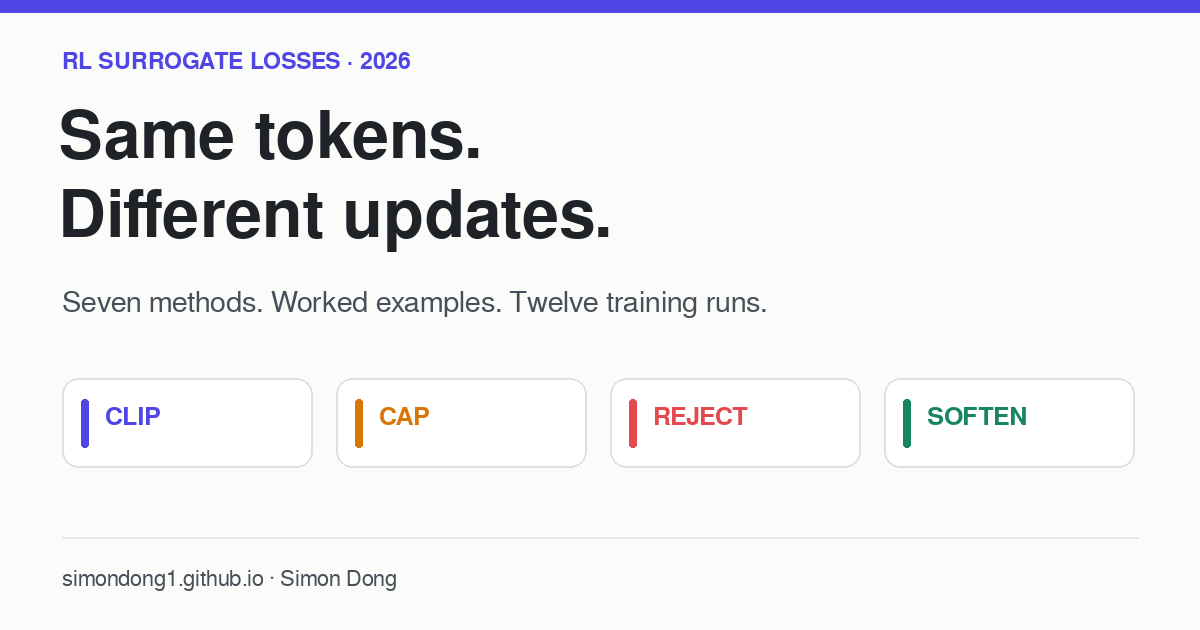
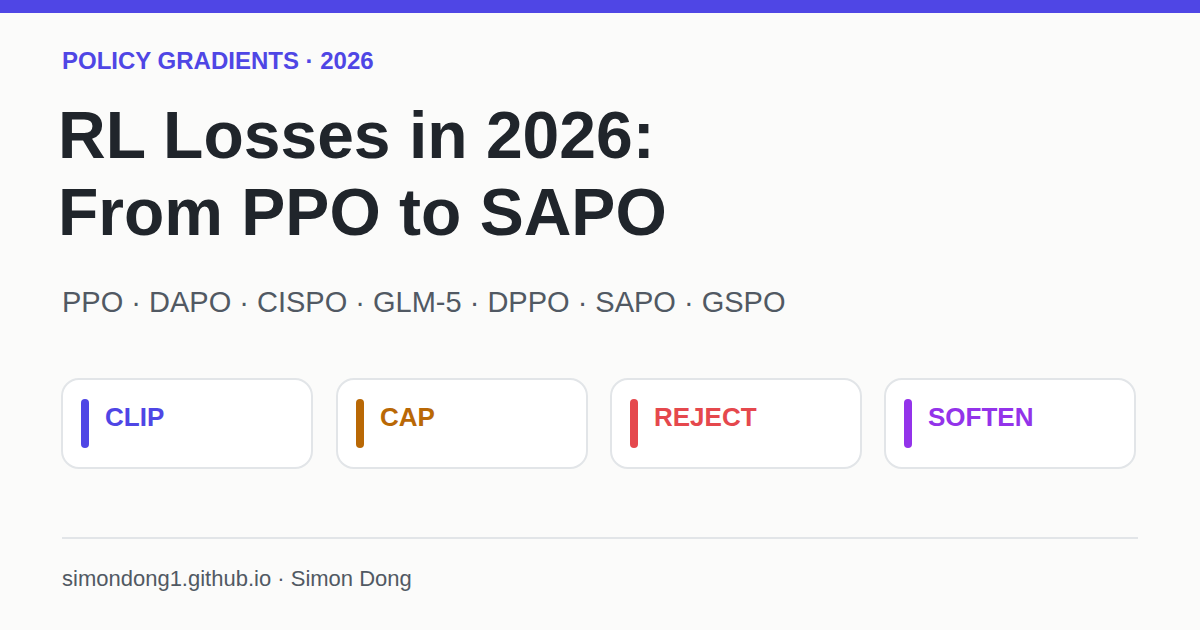
Refine RL article headings and complete editorial review

diff --git a/rl-surrogates-2026.html b/rl-surrogates-2026.html
@@ -3,20 +3,20 @@
 <head>
 <meta charset="utf-8" />
 <meta name="viewport" content="width=device-width, initial-scale=1" />
-<title>RL Surrogate Losses in 2026</title>
-<meta name="description" content="Clipping, capping, and rejecting token updates produce different learning curves: six surrogates compared in twelve full-parameter Miles runs on GSM8K and DAPO-Math." />
+<title>RL Losses in 2026: From PPO to SAPO</title>
+<meta name="description" content="Clip, cap, reject, or soften a policy gradient: seven RL surrogates explained, with a controlled Qwen3.5-9B comparison on GSM8K and DAPO-Math." />
 <meta name="robots" content="index, follow, max-image-preview:large, max-snippet:-1, max-video-preview:-1" />
 <link rel="canonical" href="https://simondong1.github.io/rl-surrogates-2026.html" />
 <link rel="alternate" type="application/rss+xml" title="Simon Dong Blog" href="https://simondong1.github.io/feed.xml" />
 <link rel="alternate" type="text/plain" title="llms.txt" href="https://simondong1.github.io/llms.txt" />
-<meta property="og:title" content="RL Surrogate Losses in 2026" />
-<meta property="og:description" content="Clipping, capping, and rejecting token updates produce different learning curves: six surrogates compared in twelve full-parameter Miles runs on GSM8K and DAPO-Math." />
+<meta property="og:title" content="RL Losses in 2026: From PPO to SAPO" />
+<meta property="og:description" content="Clip, cap, reject, or soften a policy gradient: seven RL surrogates explained, with a controlled Qwen3.5-9B comparison on GSM8K and DAPO-Math." />
 <meta property="og:type" content="article" />
 <meta property="og:url" content="https://simondong1.github.io/rl-surrogates-2026.html" />
 <meta property="og:site_name" content="Simon Dong" />
 <meta property="og:locale" content="en_US" />
-<meta property="og:image" content="https://simondong1.github.io/assets/rl-surrogates-2026-og.png?v=2" />
-<meta property="og:image:secure_url" content="https://simondong1.github.io/assets/rl-surrogates-2026-og.png?v=2" />
+<meta property="og:image" content="https://simondong1.github.io/assets/rl-surrogates-2026-og.png?v=3" />
+<meta property="og:image:secure_url" content="https://simondong1.github.io/assets/rl-surrogates-2026-og.png?v=3" />
 <meta property="og:image:type" content="image/png" />
 <meta property="og:image:width" content="1200" />
 <meta property="og:image:height" content="630" />
@@ -24,12 +24,12 @@
 <meta name="twitter:card" content="summary_large_image" />
 <meta name="twitter:site" content="@dongsixiang" />
 <meta name="twitter:creator" content="@dongsixiang" />
-<meta name="twitter:title" content="RL Surrogate Losses in 2026" />
-<meta name="twitter:description" content="Clipping, capping, and rejecting token updates produce different learning curves: six surrogates compared in twelve full-parameter Miles runs on GSM8K and DAPO-Math." />
-<meta name="twitter:image" content="https://simondong1.github.io/assets/rl-surrogates-2026-og.png?v=2" />
+<meta name="twitter:title" content="RL Losses in 2026: From PPO to SAPO" />
+<meta name="twitter:description" content="Clip, cap, reject, or soften a policy gradient: seven RL surrogates explained, with a controlled Qwen3.5-9B comparison on GSM8K and DAPO-Math." />
+<meta name="twitter:image" content="https://simondong1.github.io/assets/rl-surrogates-2026-og.png?v=3" />
 <meta name="twitter:image:alt" content="Clip, cap, reject, or soften the contribution of a sampled token." />
 <meta name="author" content="Simon Dong" />
-<meta name="citation_title" content="RL Surrogate Losses in 2026" />
+<meta name="citation_title" content="RL Losses in 2026: From PPO to SAPO" />
 <meta name="citation_author" content="Dong, Simon" />
 <meta name="citation_publication_date" content="2026/09/15" />
 <meta name="citation_fulltext_html_url" content="https://simondong1.github.io/rl-surrogates-2026.html" />
@@ -37,8 +37,8 @@
 {
   "@context": "https://schema.org",
   "@type": "TechArticle",
-  "headline": "RL Surrogate Losses in 2026",
-  "description": "Clipping, capping, and rejecting token updates produce different learning curves: six surrogates compared in twelve full-parameter Miles runs on GSM8K and DAPO-Math.",
+  "headline": "RL Losses in 2026: From PPO to SAPO",
+  "description": "Clip, cap, reject, or soften a policy gradient: seven RL surrogates explained, with a controlled Qwen3.5-9B comparison on GSM8K and DAPO-Math.",
   "author": {
     "@type": "Person",
     "name": "Simon Dong",
@@ -48,7 +48,7 @@
   "dateModified": "2026-09-16",
   "mainEntityOfPage": "https://simondong1.github.io/rl-surrogates-2026.html",
   "image": [
-    "https://simondong1.github.io/assets/rl-surrogates-2026-og.png?v=2"
+    "https://simondong1.github.io/assets/rl-surrogates-2026-og.png?v=3"
   ],
   "keywords": [
     "reinforcement learning",
@@ -211,7 +211,7 @@ footer a{color:var(--ink-soft)}
 <body>
 <header class="hero"><div class="wrap">
 <p class="eyebrow">Reinforcement learning · Part 2</p>
-<h1 class="title">RL Surrogate Losses<br>in 2026</h1>
+<h1 class="title">RL Losses in 2026:<br>From PPO to SAPO</h1>
 <p class="subtitle">PPO · DAPO · CISPO · GLM-5 · DPPO · SAPO · GSPO</p>
 <div class="byline"><a class="who" href="https://x.com/dongsixiang">Simon Dong</a><span aria-hidden="true">·</span><time datetime="2026-09-15">September 15, 2026</time></div>
 </div></header>
@@ -219,18 +219,18 @@ footer a{color:var(--ink-soft)}
 
 <a class="background-link" href="ppo.html"><span class="kicker">Background · Part 1</span><strong>Understanding PPO for Language Models <span aria-hidden="true">↗</span></strong><span>The rollout loop, advantages, and why the trainer recomputes log probabilities.</span></a>
 <nav class="toc" aria-label="Table of contents"><div class="toc-title">On this page</div><ol>
-<li><a href="#foundation">The shared gradient</a></li>
-<li><a href="#map">The 2026 landscape</a></li>
+<li><a href="#foundation">From rewards to gradients</a></li>
+<li><a href="#map">Seven surrogate rules</a></li>
 <li><a href="#ppo">Clip, cap, or reject</a></li>
-<li><a href="#dppo">Beyond ratio clipping</a></li>
-<li><a href="#explorer">Try the gradients</a></li>
-<li><a href="#aggregation">Weighting long responses</a></li>
+<li><a href="#dppo">Beyond token-ratio clipping</a></li>
+<li><a href="#explorer">Compare the gradients</a></li>
+<li><a href="#aggregation">Response length and weighting</a></li>
 <li><a href="#experiments">Real experiment</a></li>
 <li><a href="#references">Sources &amp; code</a></li>
 </ol></nav>
 
 <section id="foundation">
-<h2>The shared gradient</h2>
+<h2>From rewards to gradients</h2>
 <p>The RL loop is <strong>sample responses → score them → update the policy</strong>. The methods below change how the last step uses those samples.</p>
 
 <h3>Maximize expected reward</h3>
@@ -260,7 +260,7 @@ A_{\text{incorrect}}&amp;=\frac{0-0.5}{0.5}=-1.
 <div class="formula">\[ A_i=\frac{R_i-\bar R}{\sigma_R+\epsilon}. \]</div>
 <p>Identical rewards give \(A_i=0\): the group provides no relative learning signal. <strong>Advantage estimation and the surrogate are separate choices.</strong> Our runs all use GRPO to estimate advantages and vary the surrogate.</p>
 
-<h3>Train on saved rollouts</h3>
+<h3>Build a surrogate from saved rollouts</h3>
 <p>The trainer updates \(\theta\) on responses already sampled by a rollout policy. A <strong>surrogate</strong> is the differentiable stand-in for expected reward that we optimize on this fixed batch.</p>
 <p>For one saved token and its preceding context:</p>
 <dl class="notation">
@@ -274,7 +274,7 @@ A_{\text{incorrect}}&amp;=\frac{0-0.5}{0.5}=-1.
 <p>Hold \(q\) and \(A\) fixed. Only \(p\) depends on the current parameters:</p>
 <div class="formula featured">\[ \nabla_\theta j=\frac{A}{q}\nabla_\theta p=\underbrace{Ar}_{c}\,\nabla_\theta\log p. \]</div>
 <p>At \(p=q\), the coefficient is \(c=A\). As training changes \(p\), the ratio adjusts the saved token’s weight.</p>
-<p>Positive <strong>\(c\)</strong> reinforces the sampled token; negative \(c\) discourages it. The following surrogates clip, cap, gate, or soften this coefficient. Token averaging is a separate choice, covered in <a href="#aggregation">Weighting long responses</a>.</p>
+<p>Positive <strong>\(c\)</strong> reinforces the sampled token; negative \(c\) discourages it. The following surrogates clip, cap, gate, or soften this coefficient. Token averaging is a separate choice, covered in <a href="#aggregation">Response length and weighting</a>.</p>
 <p class="note">A zero coefficient removes this token’s local contribution. Other tokens and optimizer momentum can still move its probability.</p>
 <details><summary>Baseline, normalization, and ratio conventions</summary>
 <p>A prompt-dependent baseline \(b(x)\) leaves the expected on-policy gradient unchanged:</p>
@@ -296,8 +296,8 @@ A_{\text{incorrect}}&amp;\approx-0.866.
 </section>
 
 <section id="map">
-<h2>The 2026 landscape</h2>
-<p>These are prominent <strong>publicly documented</strong> methods. Model reports establish specific uses, not an industry-wide ranking.</p>
+<h2>Seven surrogate rules</h2>
+<p>These <strong>publicly documented</strong> methods appear in model reports, research papers, and RL frameworks. The sources identify where each is used; they do not establish an industry-wide ranking.</p>
 <div class="table-scroll"><table class="ptable overview"><thead><tr><th>Method</th><th>What changes</th><th>Public source</th></tr></thead><tbody>
 <tr><td><a href="#ppo">PPO / GRPO</a></td><td>Directional ratio clipping</td><td><a href="https://arxiv.org/abs/2402.03300">DeepSeekMath</a></td></tr>
 <tr><td><a href="#dapo">DAPO</a></td><td>More room for positive updates</td><td><a href="https://arxiv.org/abs/2503.14476">DAPO</a></td></tr>
@@ -320,7 +320,7 @@ A_{\text{incorrect}}&amp;\approx-0.866.
 
 <section id="ppo">
 <h2>Clip, cap, or reject</h2>
-<h3>PPO: stop pushing farther</h3>
+<h3>PPO: clip the policy ratio</h3>
 <p><strong>Proximal Policy Optimization (PPO)</strong> stops an update that has moved far enough in the advantage’s preferred direction. It keeps updates that would correct a move in the wrong direction.</p>
 <div class="example">
 <p class="kicker">Same token · Opposite advantages</p>
@@ -332,21 +332,21 @@ A_{\text{incorrect}}&amp;\approx-0.866.
 <p>The <code>min</code> makes clipping directional. Away from the boundaries:</p>
 <div class="formula">\[ c_{\rm PPO}=\begin{cases}0,&amp;A&gt;0\text{ and }r&gt;u,\\0,&amp;A&lt;0\text{ and }r&lt;l,\\Ar,&amp;\text{otherwise}.\end{cases} \]</div>
 
-<h3 id="dapo">DAPO: widen the positive side</h3>
+<h3 id="dapo">DAPO: raise the upper clip bound</h3>
 <p>DAPO’s <strong>clip-higher</strong> component uses the same formula with a larger upper bound. This gives low-probability tokens more room to grow before clipping.</p>
 <div class="example"><p>At \(r=1.25,\ A=+1\): PPO’s upper bound 1.2 gives <strong>\(c=0\)</strong>; DAPO’s 1.28 gives <strong>\(c=1.25\)</strong>.</p></div>
 <p class="note">Full DAPO also changes sampling, token aggregation, and overlong-response handling. Changing only the upper bound tests one component.</p>
-<details><summary>Dual-clip PPO: another hard boundary</summary>
+<details><summary>Dual-clip PPO: limit negative-advantage terms</summary>
 <p>Implemented in verl and SkyRL, dual-clip limits unusually large negative-advantage terms. For a constant \(\kappa&gt;1\):</p>
 <div class="formula">\[ j_{\rm dual}=\begin{cases}\max(j_{\rm PPO},\kappa A),&amp;A&lt;0,\\j_{\rm PPO},&amp;A\geq0.\end{cases} \]</div>
-<p>At \(r=4,\ A=-1,\ \kappa=3\), ordinary PPO keeps \(c=-4\). Dual-clip selects the constant objective \(-3\), so \(c=0\). Our runs use ordinary PPO.</p>
+<p>At \(r=4,\ A=-1,\ \kappa=3\), ordinary PPO clipping keeps \(c=-4\). Dual-clip selects the constant objective \(-3\), so \(c=0\). Our baseline uses ordinary clipping.</p>
 </details>
 
 <h3 id="weights">CISPO and GLM-5: cap versus reject</h3>
 <p>Both multiply log probability by a weight \(w\). <strong>Stop-gradient</strong>, written \(\operatorname{sg}\), freezes that weight during differentiation:</p>
 <div class="formula">\[ j=\operatorname{sg}(w)A\log p \quad\Longrightarrow\quad c=Aw. \]</div>
 <ul class="findings">
-<li><strong>CISPO caps \(w\).</strong> MiniMax-M1 keeps useful token gradients beyond the clipping boundary.</li>
+<li><strong>CISPO caps \(w\).</strong> MiniMax-M1’s Clipped Importance Sampling Policy Optimization keeps token gradients beyond the clipping boundary.</li>
 <li><strong>GLM-5 rejects extreme ratios.</strong> Its asynchronous agent surrogate distrusts tokens far from their recorded rollout probabilities, regardless of advantage sign.</li>
 </ul>
 <div class="example">
@@ -368,8 +368,8 @@ w_{\rm GLM}&amp;=r\,\mathbf1[l&lt;r&lt;u].
 </section>
 
 <section id="dppo">
-<h2>Beyond ratio clipping</h2>
-<h3>DPPO: measure probability mass</h3>
+<h2>Beyond token-ratio clipping</h2>
+<h3>DPPO: gate by divergence</h3>
 <p><strong>Divergence Proximal Policy Optimization (DPPO)</strong> questions whether a large ratio means a large change. A rare token can grow tenfold while moving little probability mass.</p>
 <div class="example">
 <p class="kicker">Two rewarded tokens · \(A=+1\)</p>
@@ -377,27 +377,27 @@ w_{\rm GLM}&amp;=r\,\mathbf1[l&lt;r&lt;u].
 <tr><td>0.001 → 0.01</td><td>10</td><td>0.009</td></tr>
 <tr><td>0.50 → 0.70</td><td>1.4</td><td>0.20</td></tr>
 </tbody></table></div>
-<p>GLM’s 0.5–5 interval rejects the rare token and keeps the common one. DPPO with a probability-mass threshold of 0.15 does the reverse.</p>
+<p>GLM-5’s 0.5–5 interval rejects the rare token and keeps the common one. DPPO with a probability-mass threshold of 0.15 does the reverse.</p>
 </div>
 <p><strong>Binary total variation (TV)</strong> groups the vocabulary into “sampled token” and “everything else.” The distance between \([q,1-q]\) and \([p,1-p]\) is simply \(|p-q|\).</p>
 <p>DPPO applies a directional gate \(m\), with thresholds \(\delta_+\) and \(\delta_-\):</p>
 <div class="formula">\[ m=\begin{cases}0,&amp;A&gt;0\text{ and }p-q&gt;\delta_+,\\0,&amp;A&lt;0\text{ and }q-p&gt;\delta_-,\\1,&amp;\text{otherwise}.\end{cases} \]</div>
 <div class="formula">\[ j_{\rm DPPO}=\operatorname{sg}(m)rA,\qquad c_{\rm DPPO}=Ar\,m. \]</div>
 <p><strong>Divergence changes the gate, not the retained weight.</strong> The rare token still gets \(c=10\). Binary TV cannot detect mass rearranged among the other vocabulary entries.</p>
-<details><summary>A negative advantage, and implementation variants</summary>
-<p>Take \(A=-1,\ q=0.90,\ p=0.74\). PPO keeps \(c\approx-0.822\), inside its 0.8–1.2 bounds. DPPO rejects it: the decrease of 0.16 exceeds 0.15. Mass-based gating can be stricter for common tokens.</p>
+<details><summary>Negative advantages and implementation variants</summary>
+<p>Take \(A=-1,\ q=0.90,\ p=0.74\). The ratio \(r\approx0.822\) is inside PPO’s 0.8–1.2 bounds, so \(c\approx-0.822\). DPPO rejects it: the decrease of 0.16 exceeds 0.15. Mass-based gating can be stricter for common tokens.</p>
 <p>The paper also studies binary Kullback–Leibler divergence and top-\(K\) approximations. Here DPPO means the binary-TV variant of <em>Divergence</em> PPO.</p>
 <p>The pinned verl path additionally caps a detached importance weight: \(c=A\min(r,C)m\), for cap \(C\). The pinned SkyRL path and our experiment use the uncapped coefficient above, subject to the numerical guard documented with our results.</p>
 </details>
 
-<h3 id="sapo">SAPO: soften the boundary</h3>
+<h3 id="sapo">SAPO: smooth the gradient weight</h3>
 <p><strong>Soft Adaptive Policy Optimization (SAPO)</strong> reduces influence smoothly as a ratio drifts. It uses the sigmoid \(\sigma(z)=1/(1+e^{-z})\), a smooth function between zero and one.</p>
 <div class="example"><p>At \(r=1.5,\ A=+1\), PPO clips to zero. With temperature \(\tau=1\), SAPO’s attenuation is about 0.94, giving <strong>\(c\approx1.5\times0.94=1.41\)</strong>.</p></div>
 <p>Define \(h=\sigma(\tau(r-1))\). Then:</p>
 <div class="formula">\[ j_{\rm SAPO}=\frac4\tau hA,\qquad c_{\rm SAPO}=Ar\,4h(1-h). \]</div>
 <p>At \(r=1\), attenuation is one. Larger \(\tau\) makes it decay faster; positive and negative advantages can use different temperatures. The attenuation is at most one; the coefficient \(c\) can still exceed the advantage in magnitude.</p>
 
-<h3 id="gspo">GSPO: decide for the whole response</h3>
+<h3 id="gspo">GSPO: clip whole responses</h3>
 <p><strong>Group Sequence Policy Optimization (GSPO)</strong> replaces noisy token-level decisions with one length-normalized sequence ratio.</p>
 <div class="example">
 <p>Two token ratios are 0.5 and 2.0, with \(A=+1\). Their geometric mean is \(\sqrt{0.5\times2}=1\), so GSPO keeps the response.</p>
@@ -410,7 +410,7 @@ w_{\rm GLM}&amp;=r\,\mathbf1[l&lt;r&lt;u].
 </section>
 
 <section id="explorer">
-<h2>Try the gradients</h2>
+<h2>Compare the gradients</h2>
 <p>Compare one token across six rules. Positive \(c\) reinforces the token; negative \(c\) discourages it. GSPO needs a whole response and is omitted here.</p>
 <div class="panel" id="gradient-explorer">
 <p class="panel-title">Policy-gradient coefficient</p>
@@ -441,7 +441,7 @@ w_{\rm GLM}&amp;=r\,\mathbf1[l&lt;r&lt;u].
 
 
 <section id="aggregation">
-<h2>Weighting long responses</h2>
+<h2>Response length and weighting</h2>
 <p>More tokens means more loss terms, not more optimizer steps. The reduction decides their relative weight.</p>
 <div class="example">
 <p class="kicker">One prompt · Responses of 10 and 90 tokens</p>
@@ -453,13 +453,13 @@ w_{\rm GLM}&amp;=r\,\mathbf1[l&lt;r&lt;u].
 <li><strong>Token mean:</strong> pool the whole batch. Prompts producing more tokens get more weight too.</li>
 </ul>
 <p>Fixed group sizes do not make these equivalent. Our experiment uses <strong>sequence mean</strong> throughout.</p>
-<details><summary>The exact denominators</summary>
+<details><summary>Token, response, and prompt averages</summary>
 <p>Let \(j_{igt}\) be token \(t\)’s objective in response \(g\) to prompt \(i\). There are \(B\) prompts, \(G\) responses per prompt, and \(L_{ig}\) valid tokens per response.</p>
 <div class="formula">\[ J_{\rm sequence}=\frac1{BG}\sum_{i,g}\frac{\sum_t j_{igt}}{L_{ig}}. \]</div>
 <div class="formula">\[ J_{\rm prompt}=\frac1B\sum_i\frac{\sum_{g,t}j_{igt}}{\sum_gL_{ig}}. \]</div>
 <div class="formula">\[ J_{\rm token}=\frac{\sum_{i,g,t}j_{igt}}{\sum_{i,g}L_{ig}}. \]</div>
 <p>A trajectory gradient naturally sums token terms. Dividing by length deliberately reweights it; equal reduction weights do not guarantee equal gradient norms. Check the denominator and distributed normalization, because library names vary.</p>
-<p>Other methods change different layers: <a href="https://arxiv.org/abs/2402.14740">RLOO</a> changes the reward baseline; <a href="https://arxiv.org/abs/2501.03262">REINFORCE++</a> changes baseline and normalization choices; <a href="https://arxiv.org/abs/2503.20783">Dr. GRPO</a> removes particular normalization biases.</p>
+<p>Other methods change different parts of the objective: <a href="https://arxiv.org/abs/2402.14740">RLOO</a> changes the reward baseline; <a href="https://arxiv.org/abs/2501.03262">REINFORCE++</a> changes baseline and normalization choices; <a href="https://arxiv.org/abs/2503.20783">Dr. GRPO</a> removes particular normalization biases.</p>
 </details>
 </section>
 <section id="experiments">
@@ -482,7 +482,7 @@ w_{\rm GLM}&amp;=r\,\mathbf1[l&lt;r&lt;u].
 </ul>
 <p class="note">Treat GSM8K as a saturation check for this already-trained checkpoint. These evaluations do not establish whether Qwen used the exact questions during pretraining or RL.</p>
 
-<h3>DAPO-Math-17K: more room to learn</h3>
+<h3>DAPO-Math-17K: the surrogates separate</h3>
 <p><a href="https://huggingface.co/datasets/BytedTsinghua-SIA/DAPO-Math-17k">DAPO-Math-17K</a> contains competition math with numeric answers. We deduplicate it and hold out questions before training: 16,088 training questions, with 512 fixed evaluation questions. Each arm sees 1,280 prompt presentations: <strong>320 updates, with a 4,096-token response cap</strong>.</p>
 <figure><picture><source media="(max-width: 640px)" srcset="assets/rl-surrogates-2026-dapo-accuracy-mobile.svg"/><img src="assets/rl-surrogates-2026-dapo-accuracy.svg" width="828" height="324" alt="DAPO training and held-out accuracy for six RL surrogates"/></picture><figcaption>Training: sampled accuracy at collection time, with faint raw values and a trailing five-collection mean. Held out: greedy accuracy on the same 512 questions. One seed; no confidence bands. Accuracy axes use different ranges.</figcaption></figure>
 <ul class="findings">
@@ -504,7 +504,7 @@ w_{\rm GLM}&amp;=r\,\mathbf1[l&lt;r&lt;u].
 <li><strong>These are short, partial passes through the data.</strong> They do not establish convergence, performance on unseen domains, or long-horizon agent performance.</li>
 </ul></aside>
 
-<details><summary>Learning signal, truncation, and gate activation</summary>
+<details><summary>Reward variance, truncation, and gate activation</summary>
 <p>Longer outputs do not create more optimizer steps here. Every arm receives the same number of responses and updates; generated tokens and compute can differ as its policy changes.</p>
 <h4>GSM8K</h4><figure><picture><source media="(max-width: 640px)" srcset="assets/rl-surrogates-2026-gsm8k-diagnostics-mobile.svg"/><img src="assets/rl-surrogates-2026-gsm8k-diagnostics.svg" width="828" height="324" alt="GSM8K truncation and reward variance for six RL surrogates"/></picture><figcaption>Share of responses reaching the cap and prompt groups with identical rewards. Every collection is shown.</figcaption></figure>
 <ul class="findings"><li><strong>68.36%–76.17% of minibatches have zero fresh gradient.</strong> Equal group rewards eliminate GRPO advantages; gating can remove further contributions. Adam momentum can still move the weights.</li></ul>
@@ -522,12 +522,13 @@ w_{\rm GLM}&amp;=r\,\mathbf1[l&lt;r&lt;u].
 <p>These are counting weights, not fractions of gradient norm. CISPO caps weights without zeroing them; SAPO usually changes their size smoothly. This diagnostic cannot predict an entire counterfactual training run. The <a href="experiments/rl-surrogates-2026-v2/gate-audit.csv">full audit</a> includes every trained policy and DAPO clipping.</p>
 </details>
 
-<details><summary>Evaluation variability and conditional uncertainty</summary>
-<p><strong>GSM8K:</strong> initial evaluations of the same checkpoint span 95.12%–95.70%. Mean pairwise disagreement on individual task rewards is 0.91%. The task IDs and decoding settings match; greedy inference is not bitwise repeatable.</p>
-<p><strong>DAPO-Math:</strong> initial evaluations of the same checkpoint span 60.74%–62.50%. Mean pairwise disagreement on individual task rewards is 12.03%. The task IDs and decoding settings match; greedy inference is not bitwise repeatable.</p>
-<p>The <a href="experiments/rl-surrogates-2026-v2/summary.json">paired task-bootstrap intervals</a> condition on the realized models and decoded outputs. They exclude training-seed and inference-runtime uncertainty. Disjoint study splits also do not rule out pretraining exposure.</p></details>
-<details><summary>Three actual responses: reaching an answer within the cap</summary>
-<p>We inspected the first three zero-to-one reward transitions in GLM-5’s saved DAPO evaluation order. All three initial responses hit 4,096 tokens without a parsable final answer. The trained responses finished with independently checked answers:</p>
+<details><summary>Evaluation repeatability and uncertainty</summary>
+<p>Initial evaluations use the same checkpoint, task IDs, and decoding settings. Greedy inference still varies:</p>
+<ul><li><strong>GSM8K:</strong> accuracy spans 95.12%–95.70%; evaluation pairs disagree on correctness for 0.91% of questions on average.</li>
+<li><strong>DAPO-Math:</strong> accuracy spans 60.74%–62.50%; evaluation pairs disagree on correctness for 12.03% of questions on average.</li></ul>
+<p>The <a href="experiments/rl-surrogates-2026-v2/summary.json">paired task-bootstrap intervals</a> resample evaluation questions while holding the trained models and decoded outputs fixed. They exclude variation from training seeds and inference. Disjoint study splits also do not rule out pretraining exposure.</p></details>
+<details><summary>Three responses that finished within the token cap</summary>
+<p>We inspected the first three questions that changed from incorrect to correct in GLM-5’s saved DAPO evaluation order. All three initial responses hit 4,096 tokens without a parsable final answer. The trained responses finished with independently checked answers:</p>
 <div class="table-scroll"><table class="ptable results-table"><thead><tr><th>Problem</th><th>Trained tokens</th><th>Answer</th></tr></thead><tbody>
 <tr><td>Largest three-digit prime factor of C(2000,1000)</td><td>2,967</td><td>661</td></tr>
 <tr><td>Sixth score in seven tests with integer running averages</td><td>2,025</td><td>100</td></tr>
@@ -535,7 +536,7 @@ w_{\rm GLM}&amp;=r\,\mathbf1[l&lt;r&lt;u].
 </tbody></table></div><p>The first answer follows from prime-factor exponents; the other two were checked by exhaustive enumeration. These <a href="experiments/rl-surrogates-2026-v2/grader-inspection-cases.json">saved traces</a> illustrate improvement within a response budget, not the frequency of any behavior across the dataset.</p></details>
 
 
-<details id="experiment-recipe"><summary>Frozen recipe, data construction, and correctness checks</summary>
+<details id="experiment-recipe"><summary>Training recipe, data splits, and correctness checks</summary>
 <div class="table-scroll"><table class="ptable settings-table"><tbody>
 <tr><th scope="row">Engine</th><td>Miles, Fully Sharded Data Parallel (FSDP2) training and two SGLang engines on the same two B200s</td></tr>
 <tr><th scope="row">Collection</th><td>64 prompts × 4 responses; 16 minibatches of 16 responses, consumed once</td></tr>
@@ -578,7 +579,7 @@ w_{\rm GLM}&amp;=r\,\mathbf1[l&lt;r&lt;u].
 </details>
 <details><summary>How to cite this post</summary>
 <pre><code>@article{dong2026rlsurrogates,
-  title = {RL Surrogate Losses in 2026},
+  title = {RL Losses in 2026: From PPO to SAPO},
   author = {Dong, Simon},
   year = {2026},
   url = {https://simondong1.github.io/rl-surrogates-2026.html}

diff --git a/index.html b/index.html
@@ -54,7 +54,7 @@
         "author": { "@id": "https://simondong1.github.io/#person" },
         "blogPost": [
           {"@type": "BlogPosting", "headline": "How to Set the Four GRPO Batch Knobs", "url": "https://simondong1.github.io/grpo-batch-knobs.html", "datePublished": "2026-09-15"},
-          {"@type": "BlogPosting", "headline": "RL Surrogate Losses in 2026", "url": "https://simondong1.github.io/rl-surrogates-2026.html", "datePublished": "2026-09-15", "dateModified": "2026-09-16"},
+          {"@type": "BlogPosting", "headline": "RL Losses in 2026: From PPO to SAPO", "url": "https://simondong1.github.io/rl-surrogates-2026.html", "datePublished": "2026-09-15", "dateModified": "2026-09-16"},
           {
             "@type": "BlogPosting",
             "headline": "How CUDA Graphs Speed Up Decode — and By How Much",
@@ -156,8 +156,8 @@
 
     <a class="post" href="https://simondong1.github.io/rl-surrogates-2026.html">
       <p class="meta">September 2026 · Reinforcement Learning · Part 2</p>
-      <h2>RL Surrogate Losses in 2026</h2>
-      <p>Clipping, capping, and rejecting token updates produce different learning curves: six surrogates compared in twelve full-parameter Miles runs on GSM8K and DAPO-Math.</p>
+      <h2>RL Losses in 2026: From PPO to SAPO</h2>
+      <p>Clip, cap, reject, or soften a policy gradient: seven RL surrogates explained, with a controlled Qwen3.5-9B comparison on GSM8K and DAPO-Math.</p>
     </a>
 
     <a class="post" href="https://simondong1.github.io/cuda-graphs.html">

diff --git a/.cursor/skills/writing-simon-tech-blog/BLOG_STYLE.md b/.cursor/skills/writing-simon-tech-blog/BLOG_STYLE.md
@@ -49,6 +49,10 @@ contrast it with the current mechanism, and link the existing article.
 - Lead with the outcome, then show the evidence.
 - Define conventional math symbols immediately. Avoid invented shorthand and
   dense inline algebra.
+- Make headings name the mechanism, comparison, or finding. Keep algorithm
+  headings parallel: method name, then its concrete operation. Match table-of-
+  contents labels to their sections and preserve a subtitle of method names
+  when requested; avoid adding a second promotional standfirst.
 - Show arithmetic as typeset substitutions, not verbal instructions. For
   normalization examples, show the inputs, mean, standard deviation, and
   resulting normalized values; name the convention used by the experiment.

diff --git a/experiments/rl-surrogates-2026/README.md b/experiments/rl-surrogates-2026/README.md
@@ -1,6 +1,6 @@
 # RL surrogate comparison, September 2026
 
-Companion to [RL Surrogate Losses in 2026](https://simondong1.github.io/rl-surrogates-2026.html).
+Companion to [RL Losses in 2026: From PPO to SAPO](https://simondong1.github.io/rl-surrogates-2026.html).
 
 The study compares **PPO clipping, binary-TV DPPO, and GLM-5 asynchronous token
 rejection**. All use the same GRPO advantages and sequence-mean reduction. This

diff --git a/experiments/rl-surrogates-2026-v2/README.md b/experiments/rl-surrogates-2026-v2/README.md
@@ -1,6 +1,6 @@
 # GSM8K and DAPO-Math surrogate comparison
 
-Follow-up to [RL Surrogate Losses in 2026](https://simondong1.github.io/rl-surrogates-2026.html).
+Follow-up to [RL Losses in 2026: From PPO to SAPO](https://simondong1.github.io/rl-surrogates-2026.html).
 The earlier Countdown/DeepMath experiment is preserved in its own directory.
 
 This study uses **full-parameter Qwen3.5-9B training in Miles** on two B200s.
